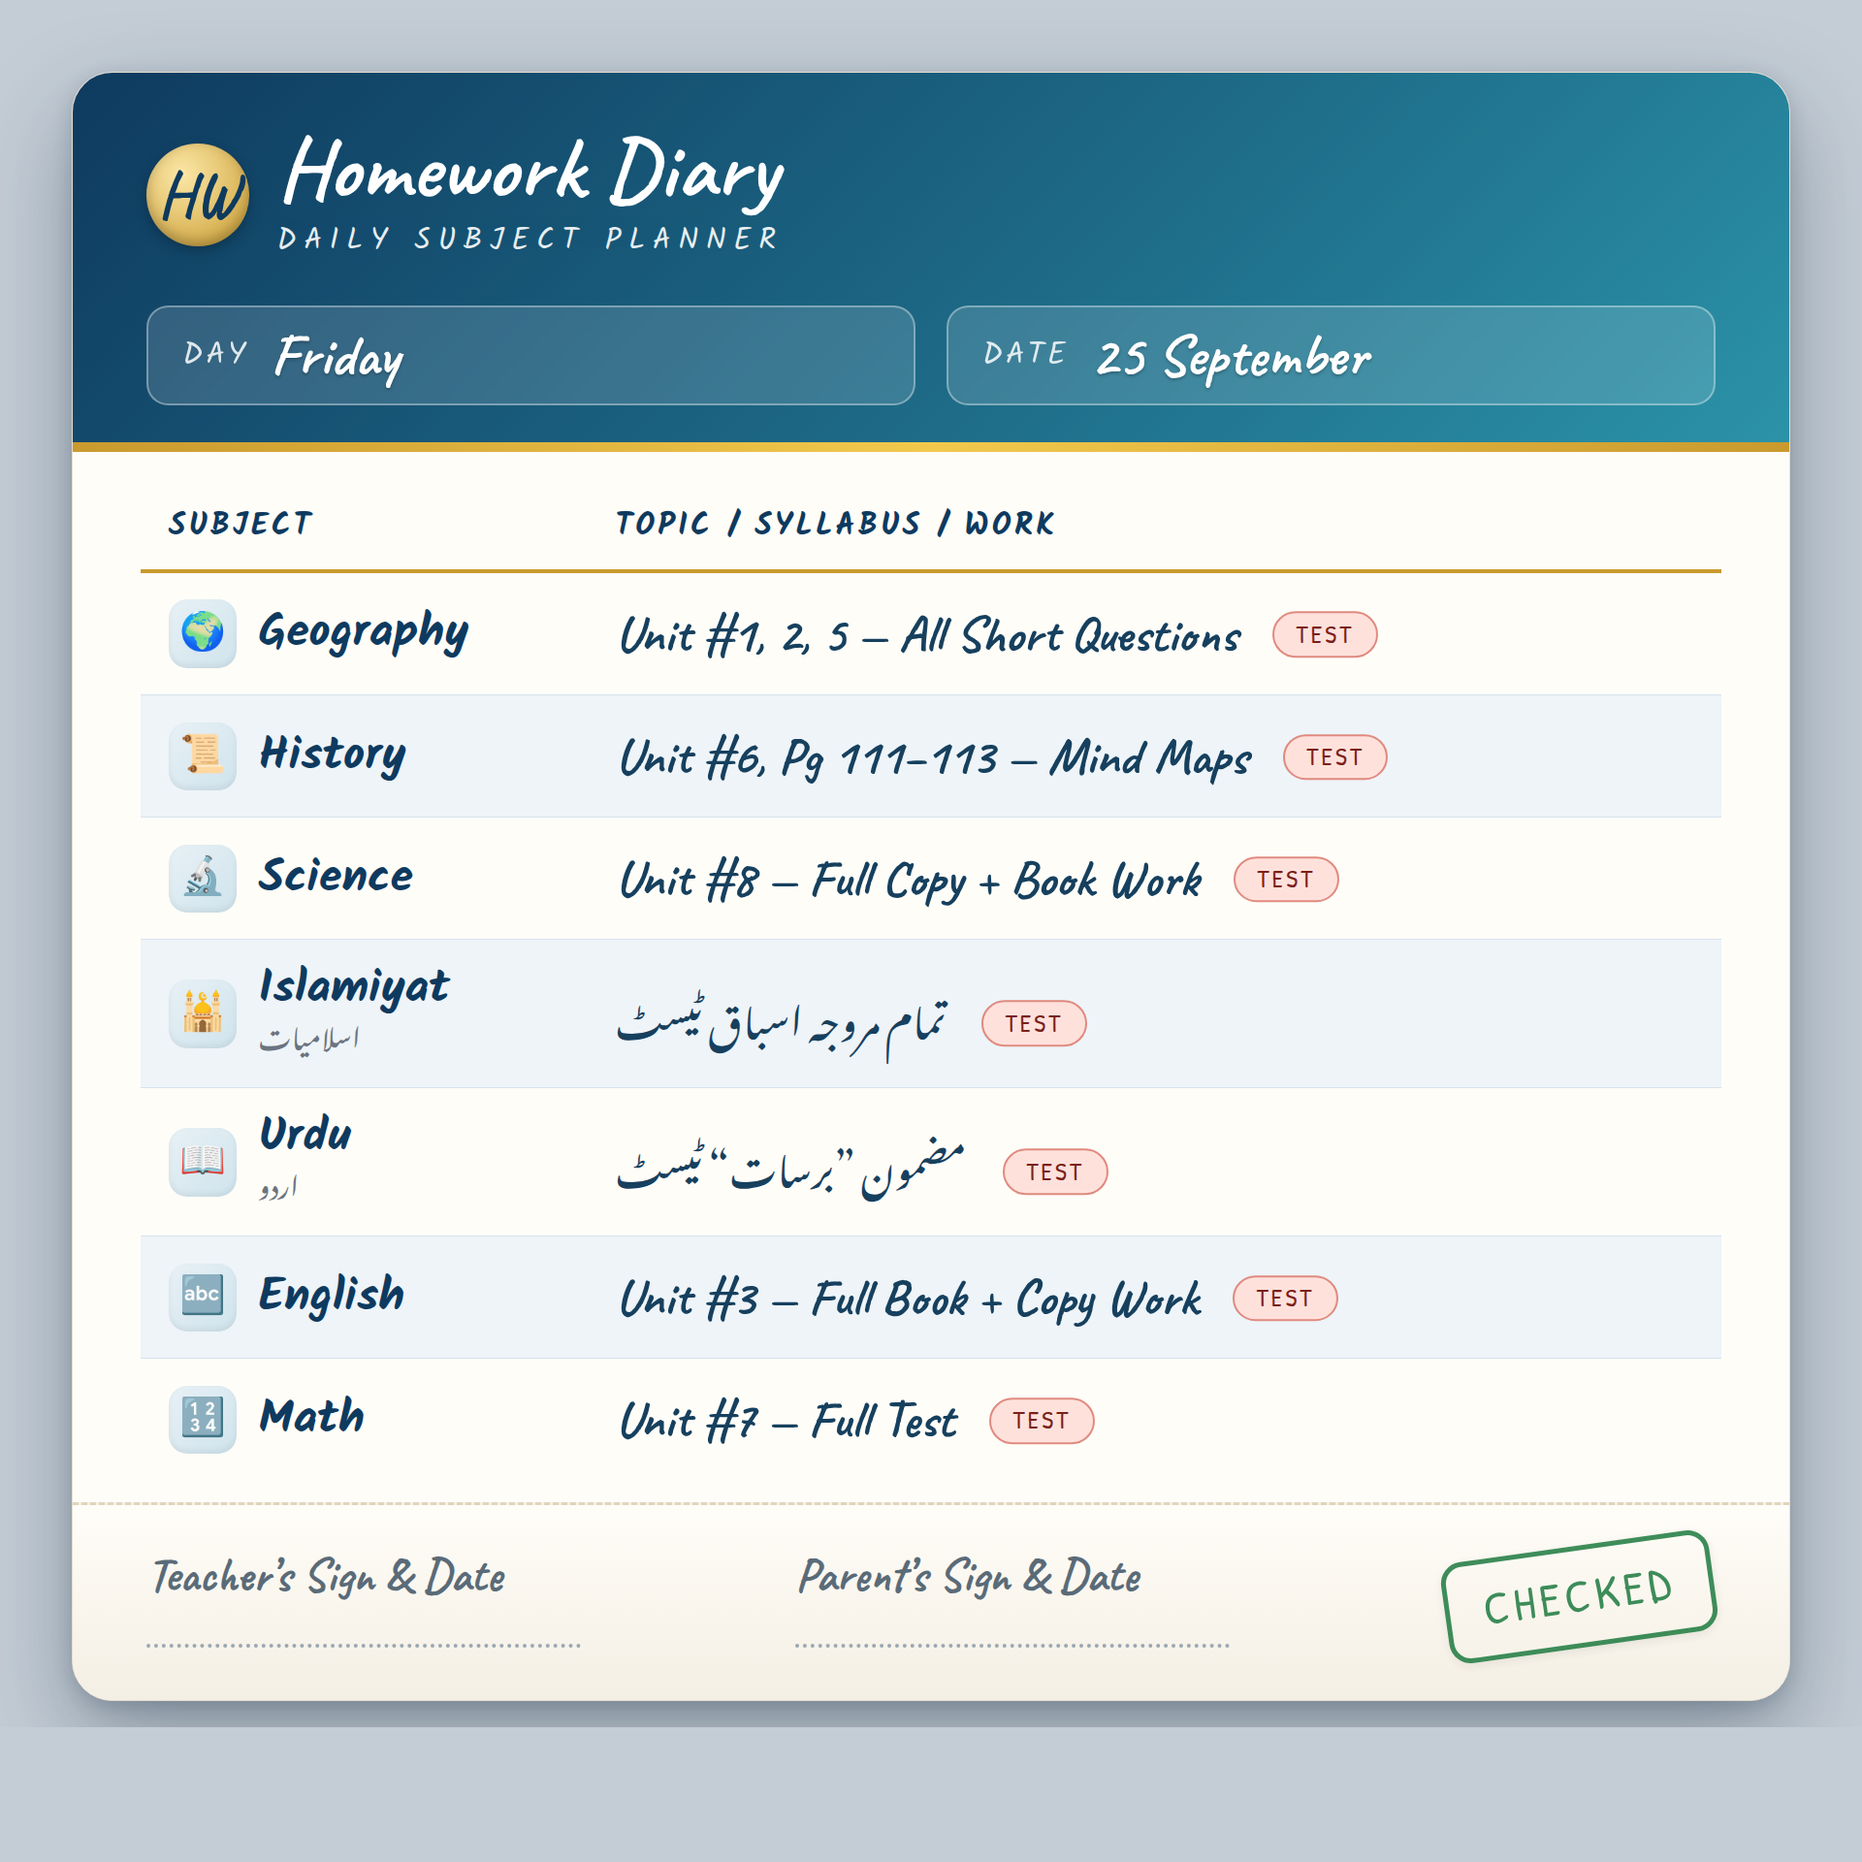
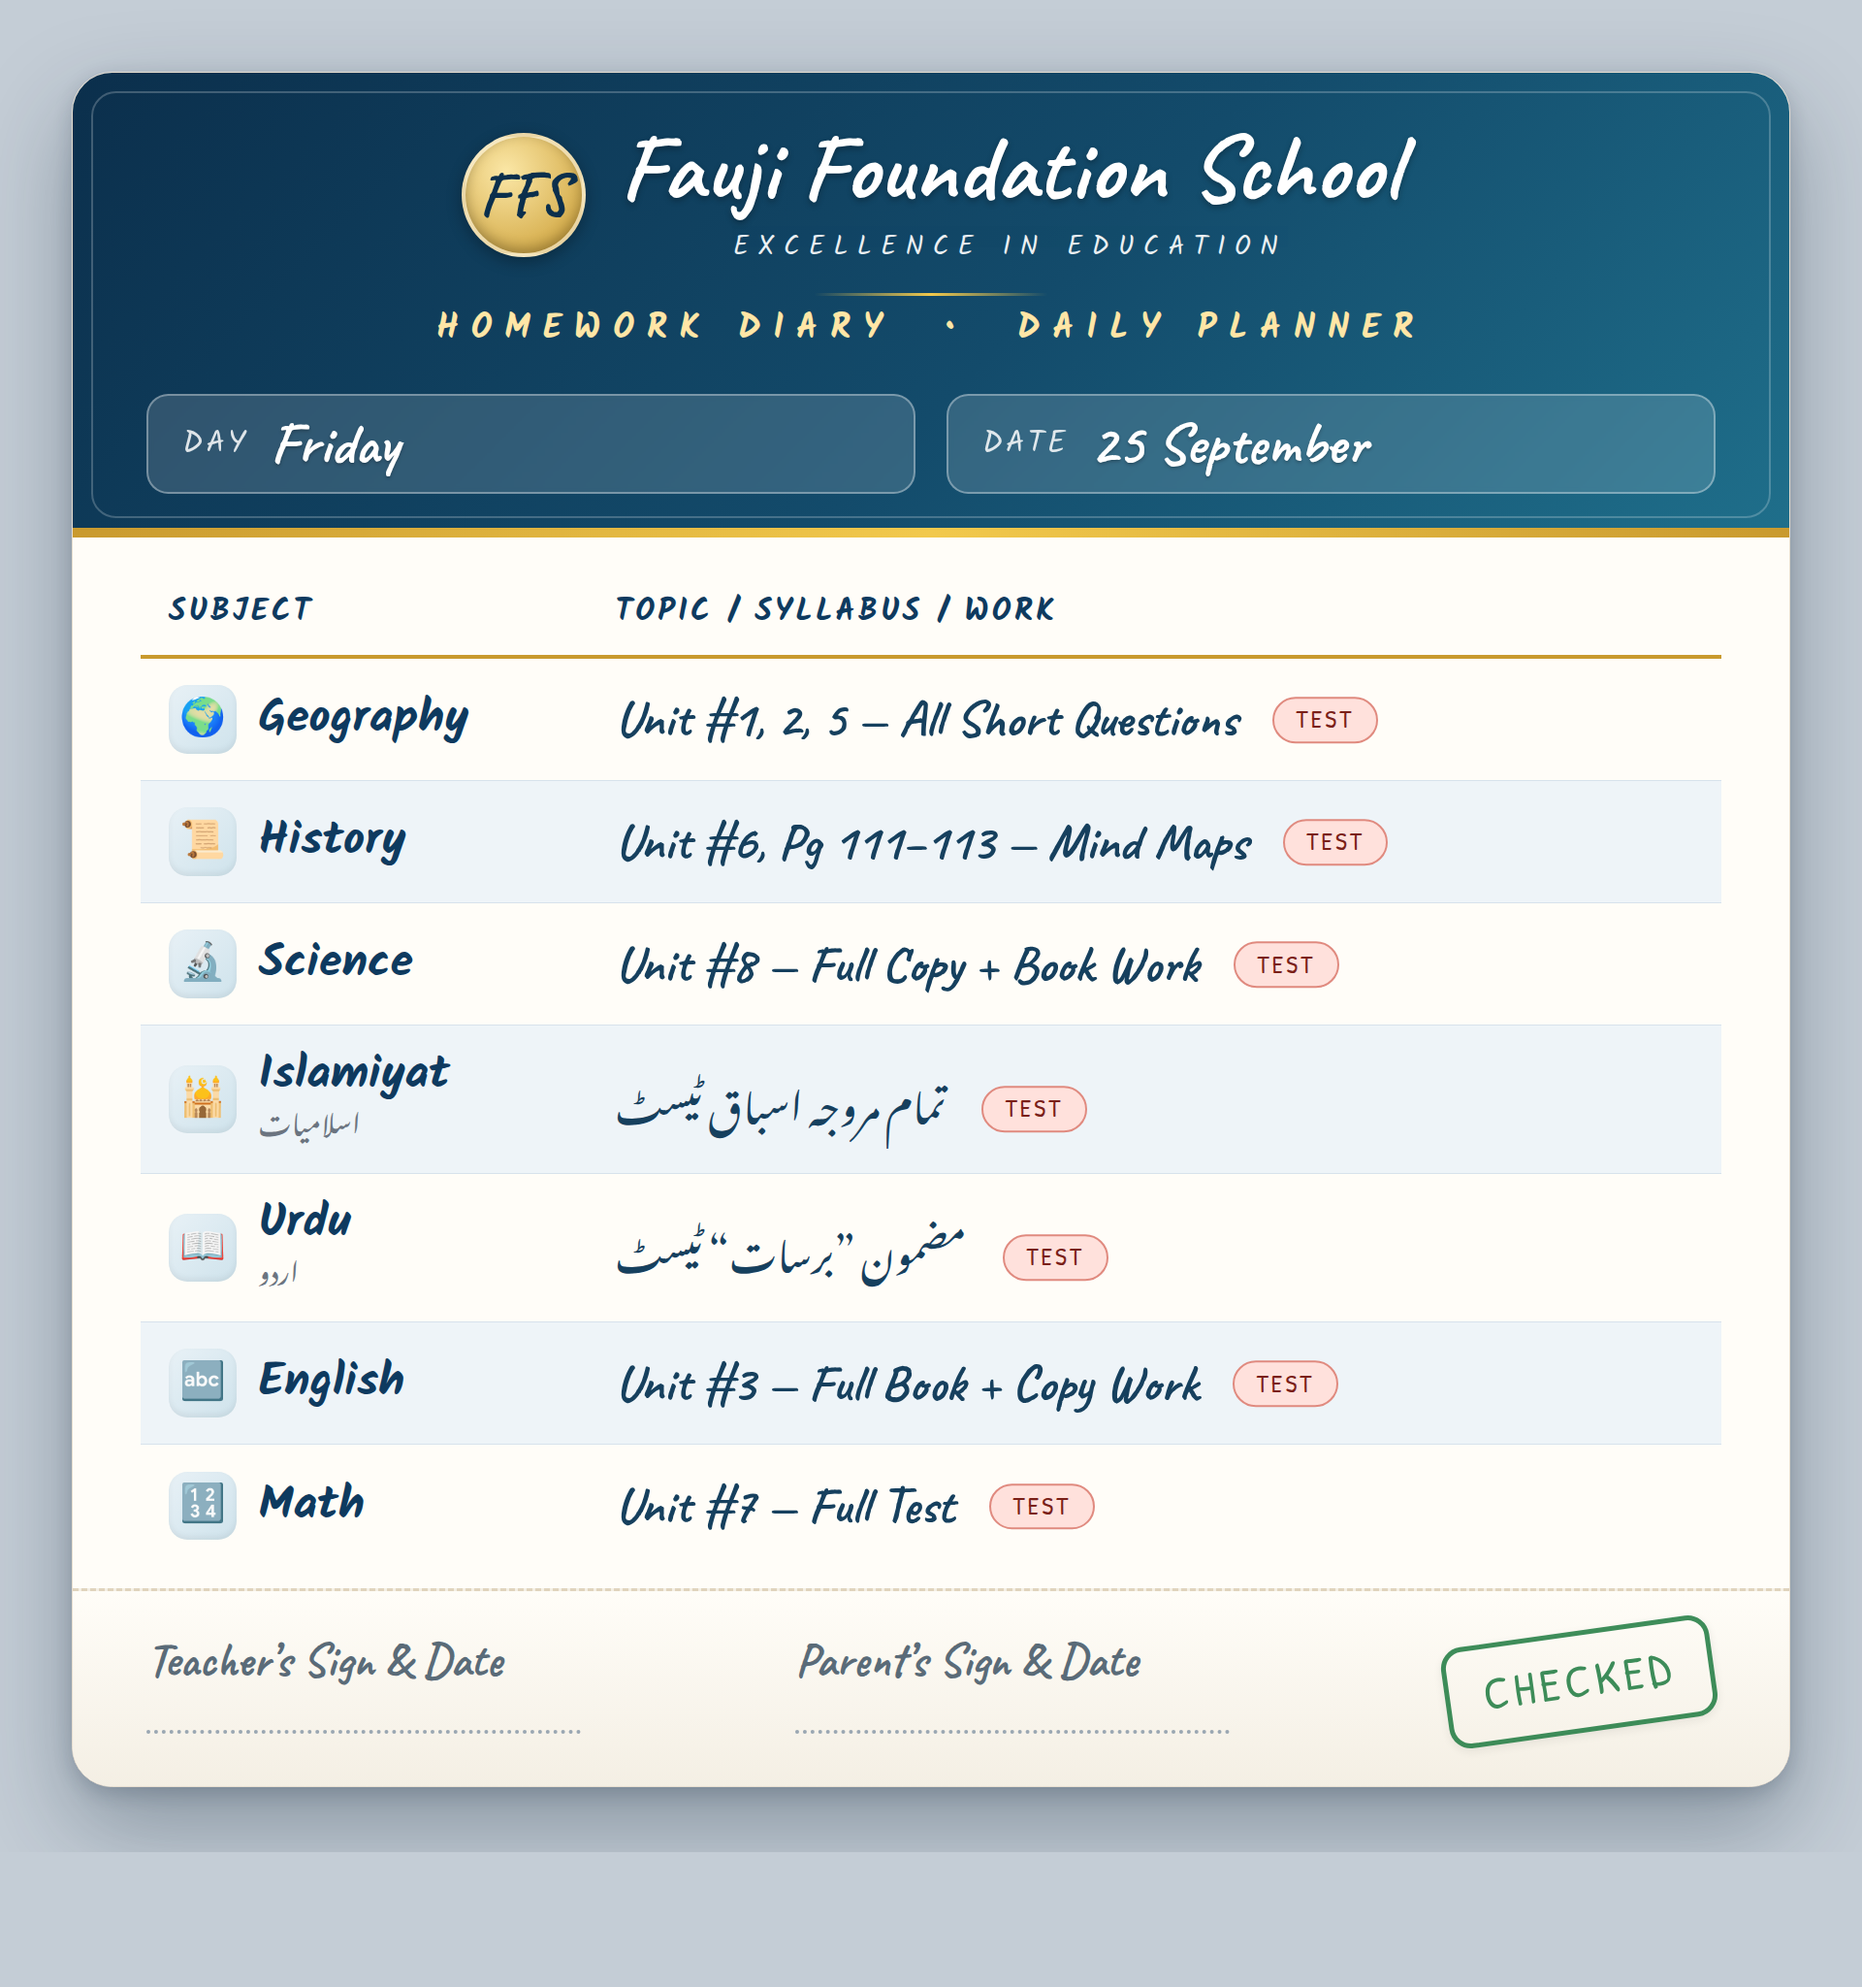
Add school name and refine diary header
Feature "Fauji Foundation School" as the centered header title with an
FFS crest, tagline and gold divider, with Homework Diary / Daily Planner
as the sub-line. Formal, professional look.

Claude-Session: https://claude.ai/code/session_012MwDs2Pq4k9B92QEmaxRzU

diff --git a/diary-25-september.html b/diary-25-september.html
@@ -26,21 +26,29 @@
 
   /* Header band */
   .top{
-    position:relative;padding:34px 48px 30px;color:#fff;
-    background:linear-gradient(135deg,#0e3a5f 0%,#1f6f8b 62%,#2b93a8 100%);
+    position:relative;padding:32px 48px 28px;color:#fff;text-align:center;
+    background:linear-gradient(135deg,#0b2f4c 0%,#134b6b 55%,#1f6f8b 100%);
   }
+  .top:before{content:"";position:absolute;inset:12px;border:1.5px solid rgba(255,255,255,.22);
+    border-radius:16px;pointer-events:none;}
   .top:after{content:"";position:absolute;left:0;right:0;bottom:0;height:6px;
     background:linear-gradient(90deg,#c99a2e,#f2c94c,#c99a2e);}
-  .brandrow{display:flex;align-items:center;gap:18px;}
-  .crest{width:66px;height:66px;border-radius:50%;flex:none;
+  .brandrow{display:flex;align-items:center;justify-content:center;gap:22px;}
+  .crest{width:80px;height:80px;border-radius:50%;flex:none;
     background:radial-gradient(circle at 35% 30%,#fbe7a6,#c99a2e);
     display:flex;align-items:center;justify-content:center;
-    font-family:'Script';font-size:40px;font-weight:700;color:#0e3a5f;
-    box-shadow:inset 0 -3px 8px rgba(0,0,0,.25),0 3px 8px rgba(0,0,0,.25);}
-  .ttl{font-family:'Script';font-size:56px;font-weight:700;line-height:1;letter-spacing:.5px;}
-  .sub{font-size:19px;letter-spacing:5px;text-transform:uppercase;opacity:.9;margin-top:4px;}
+    font-family:'Script';font-size:40px;font-weight:700;color:#0b2f4c;
+    box-shadow:inset 0 -3px 8px rgba(0,0,0,.28),0 3px 10px rgba(0,0,0,.3);
+    border:3px solid rgba(255,255,255,.5);}
+  .school{font-family:'Script';font-size:60px;font-weight:700;line-height:1;
+    letter-spacing:.5px;text-shadow:0 2px 4px rgba(0,0,0,.28);}
+  .tag{font-size:17px;letter-spacing:6px;text-transform:uppercase;opacity:.92;margin-top:7px;}
+  .rule{width:150px;height:2px;margin:16px auto 4px;
+    background:linear-gradient(90deg,transparent,#f2c94c,transparent);}
+  .ttl{font-size:22px;letter-spacing:8px;text-transform:uppercase;font-weight:700;
+    color:#ffe6a6;}
 
-  .meta{display:flex;gap:20px;margin-top:26px;}
+  .meta{display:flex;gap:20px;margin-top:24px;}
   .chip{flex:1;background:rgba(255,255,255,.14);border:1.5px solid rgba(255,255,255,.35);
     border-radius:14px;padding:12px 22px;display:flex;align-items:center;gap:14px;
     backdrop-filter:blur(2px);}
@@ -89,12 +97,14 @@
 <div class="card">
   <div class="top">
     <div class="brandrow">
-      <div class="crest">HW</div>
+      <div class="crest">FFS</div>
       <div>
-        <div class="ttl">Homework Diary</div>
-        <div class="sub">Daily Subject Planner</div>
+        <div class="school">Fauji Foundation School</div>
+        <div class="tag">Excellence in Education</div>
       </div>
     </div>
+    <div class="rule"></div>
+    <div class="ttl">Homework Diary &nbsp;&bull;&nbsp; Daily Planner</div>
     <div class="meta">
       <div class="chip"><span class="k">Day</span><span class="v">Friday</span></div>
       <div class="chip"><span class="k">Date</span><span class="v">25 September</span></div>
